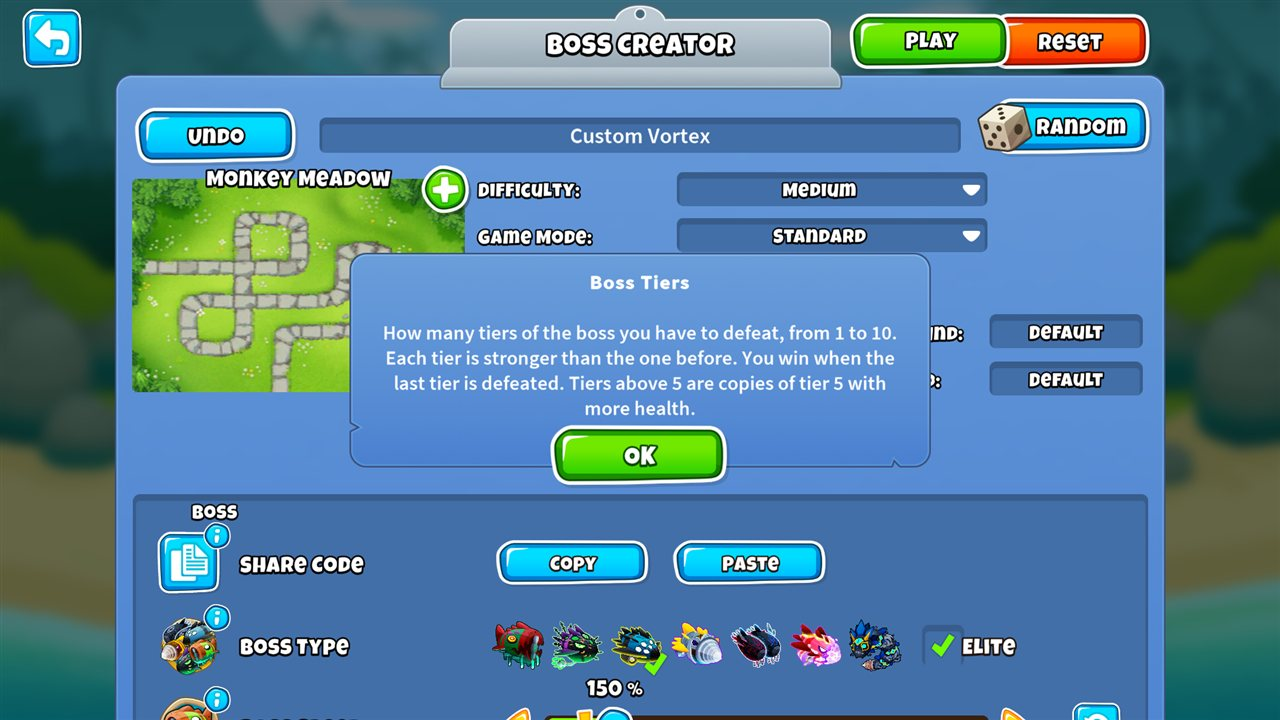
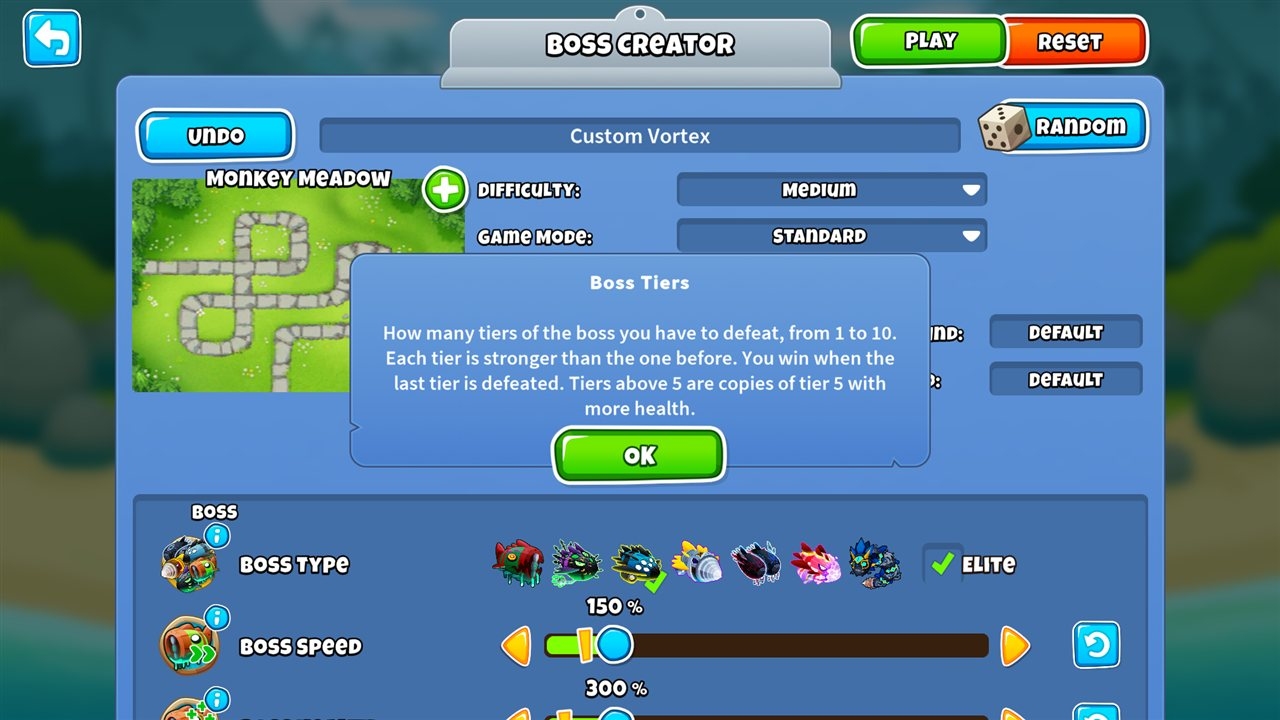
Move Share Code below the boss options

diff --git a/Menus/BossEditorSection.cs b/Menus/BossEditorSection.cs
@@ -138,12 +138,6 @@ public sealed class BossEditorSection
 
     private void BuildRows(ChallengeEditorSliderPanel template)
     {
-        // Sharing the setup as a text code
-        var shareRow = EditorRows.LabelRow(template, rows, "ShareCodeRow", Texts.ShareCode.T(), VanillaSprites.CopyClipboardBtn);
-        var shareX = EditorRows.ControlX - EditorRows.ControlWidth / 2 + 300;
-        CopyCode = ShareButton(shareRow, "CopyCode", shareX, Texts.CopyCode.T(), OnCopyCode);
-        PasteCode = ShareButton(shareRow, "PasteCode", shareX + 640, Texts.PasteCode.T(), OnPasteCode);
-
         // Boss picker and elite toggle
         var bossRow = EditorRows.LabelRow(template, rows, "BossRow", Texts.BossType.T(), VanillaSprites.BossChallenge);
         var x = EditorRows.ControlX - EditorRows.ControlWidth / 2 + 100;
@@ -252,7 +246,12 @@ public sealed class BossEditorSection
             CustomSkulls.SetText(skulls, false);
         }));
 
-        EditorRows.AddInfo(shareRow, Texts.ShareCode, Texts.ShareCodeInfo);
+        // Sharing the setup as a text code, after all the boss options
+        var shareRow = EditorRows.LabelRow(template, rows, "ShareCodeRow", Texts.ShareCode.T(), VanillaSprites.CopyClipboardBtn);
+        var shareX = EditorRows.ControlX - EditorRows.ControlWidth / 2 + 300;
+        CopyCode = ShareButton(shareRow, "CopyCode", shareX, Texts.CopyCode.T(), OnCopyCode);
+        PasteCode = ShareButton(shareRow, "PasteCode", shareX + 640, Texts.PasteCode.T(), OnPasteCode);
+
         EditorRows.AddInfo(bossRow, Texts.BossType, Texts.BossTypeInfo);
         EditorRows.AddInfo(BossSpeed.Row, Texts.BossSpeed, Texts.BossSpeedInfo);
         EditorRows.AddInfo(BossHealth.Row, Texts.BossHealth, Texts.BossHealthInfo);
@@ -264,6 +263,7 @@ public sealed class BossEditorSection
         EditorRows.AddInfo(skullModeRow, Texts.Skulls, Texts.SkullsInfo);
         EditorRows.AddInfo(SkullCount.Row, Texts.SkullCount, Texts.SkullCountInfo);
         EditorRows.AddInfo(customSkullsRow, Texts.SkullHealth, Texts.SkullHealthInfo);
+        EditorRows.AddInfo(shareRow, Texts.ShareCode, Texts.ShareCodeInfo);
     }
 
     private static ModHelperButton ShareButton(GameObject row, string name, float x, string label, Action action)

diff --git a/README.md b/README.md
@@ -53,7 +53,7 @@ Event and your Boss Challenge records and saves are never affected.
 
 ## Sharing setups
 
-The **Share Code** row at the top of the Boss section turns the whole setup, boss options and every Challenge Editor
+The **Share Code** row at the bottom of the Boss section turns the whole setup, boss options and every Challenge Editor
 rule, into a short text code:
 
 - **Copy** puts the code on the clipboard. Paste it into Discord, Reddit or a message.
@@ -66,6 +66,8 @@ characters. A new, unchanged setup gives a code like this one:
 ```
 CBC1:q1bKV7KqrtVRSgZSSsWpqSlKVoamZiZGFmbGlrW1AA
 ```
+
+![Share Code](docs/share-code.jpg)
 
 ## Boss options
 
